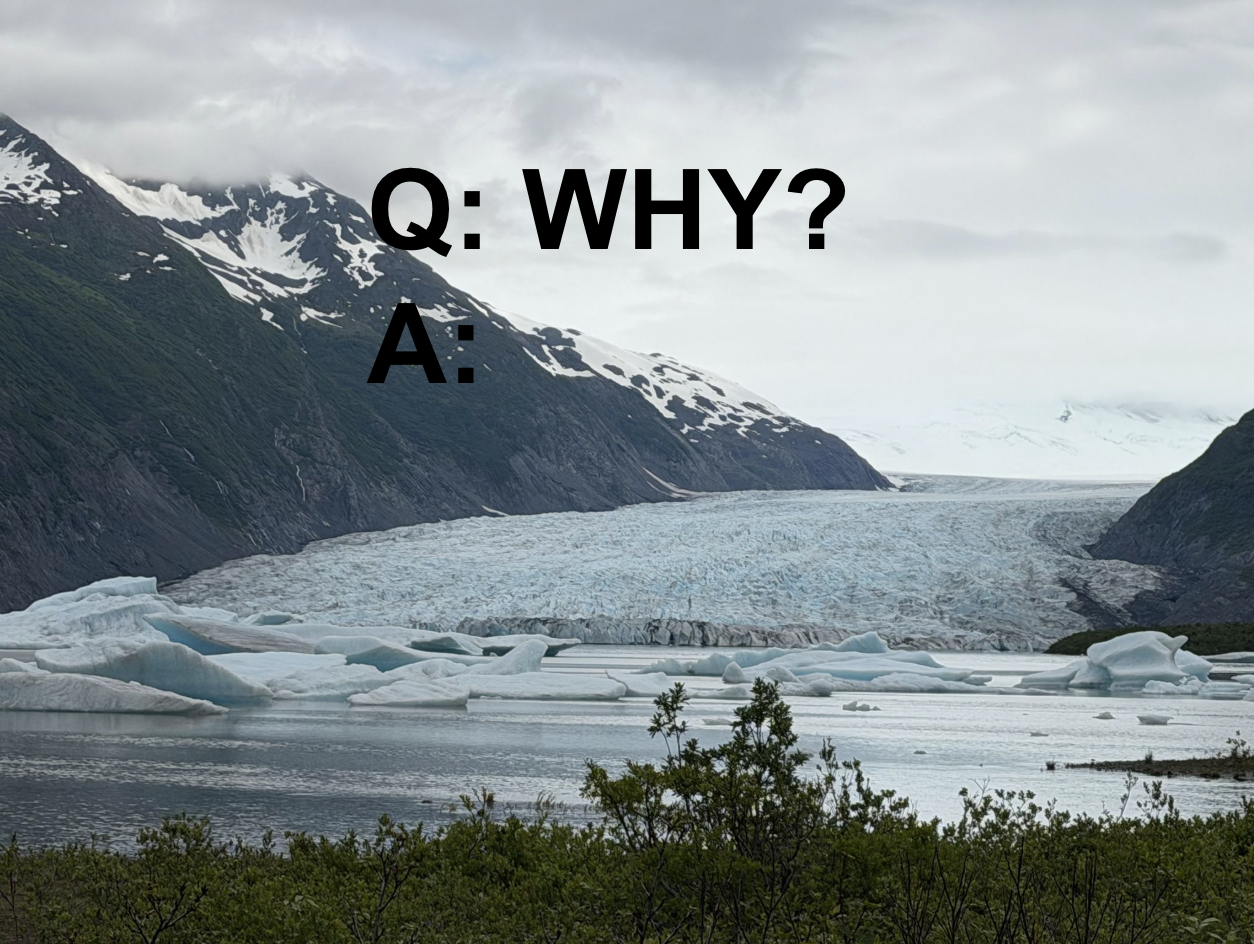
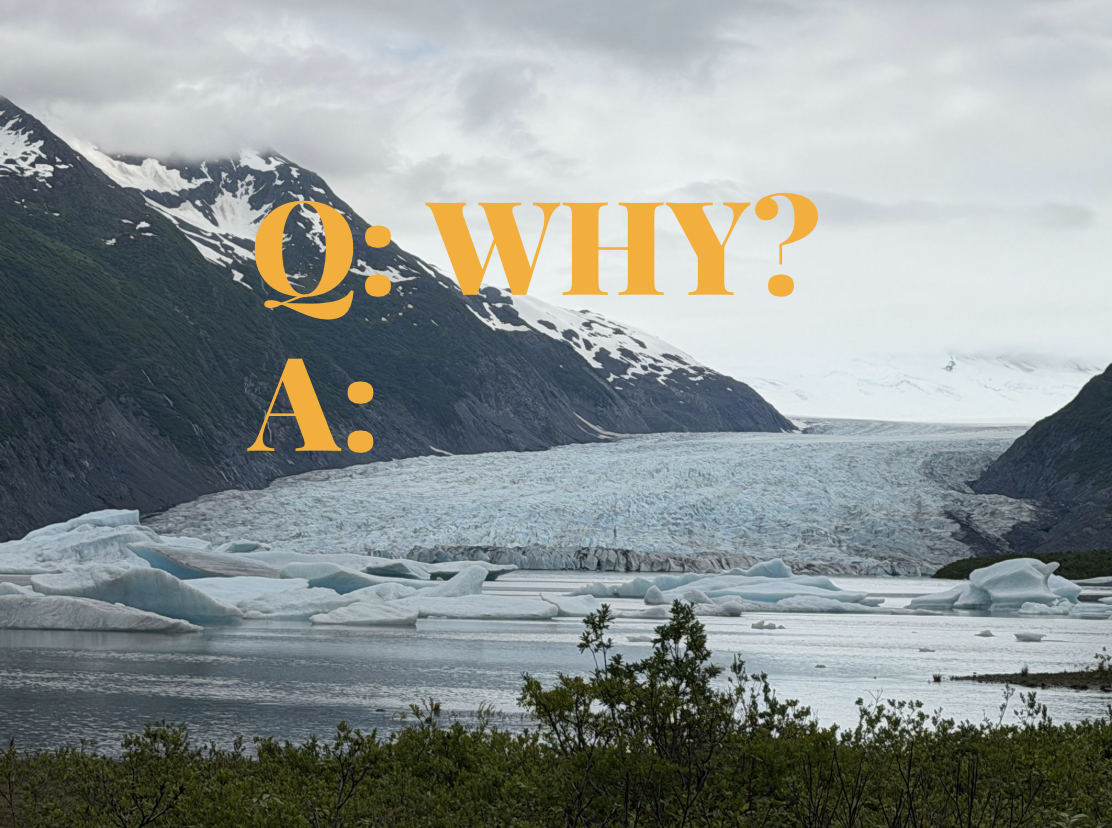
article and page updates

Changed region(s): [[0.0, 0.4227, 1.0, 1.0], [0.0, 0.1208, 0.7338, 0.4831], [0.9784, 0.4227, 1.0, 0.4529]]

diff --git a/src/styles/global.css b/src/styles/global.css
@@ -385,7 +385,7 @@ img {
 }
 
 .form-embed {
-	margin-top: 1rem;
+	margin-top: 2.5rem;
 }
 
 .form-embed iframe {

diff --git a/src/content/articles/2026_07/paragliding-tower/index.md b/src/content/articles/2026_07/paragliding-tower/index.md
@@ -3,8 +3,8 @@ title: "Kincaid Park Master Plan Update Includes New Restrooms, Trails, 1,000-Fo
 date: 2026-07-11
 category: Planning
 image: ./cover.png
-imageAlt: "Man in spacesuit beginning free-fall back to Earth."
-imageCaption: "An Anchorage paraglider seen above Kincaid Park."
+imageAlt: "Power line tower from below"
+imageCaption: "Initial construction has begun."
 author: Staff Writer
 order: 90
 ---

diff --git a/src/content/articles/2026_07/mutual-friend-connection/index.md b/src/content/articles/2026_07/mutual-friend-connection/index.md
@@ -2,9 +2,6 @@
 title: "Coastal Trail and Ship Creek Trail To Be Connected By Mutual Friend"
 date: 2026-07-11
 category: Planning
-image: ./cover.png
-imageAlt: "The Coastal Trail and the Ship Creek Trail side-by-side with a heart in the middle."
-imageCaption: "The Coastal Trail has been eyeing the Ship Creek Trail for a while."
 author: Staff Writer
 order: 70
 ---

diff --git a/src/content/articles/2026_07/because-of-glaciers/index.md b/src/content/articles/2026_07/because-of-glaciers/index.md
@@ -1,7 +1,7 @@
 ---
 title: 'Advice: If Unsure About Reason For Something In Alaska, Just Say "Because Of Glaciers"'
 date: 2026-07-11
-category: Alaskan Advice
+category: Advice
 image: ./cover.png
 imageAlt: 'Spencer Glacier in Alaska with text asking the question "why", the answer being the pictured glacier.'
 imageCaption: "Glaciers are usually the answer."

diff --git a/src/content/articles/2026_07/launched-car/index.md b/src/content/articles/2026_07/launched-car/index.md
@@ -1,7 +1,7 @@
 ---
 title: 'Launched Car Keeps Going'
 date: 2026-07-11
-category: Alaskan Events
+category: Events
 image: ./cover.png
 imageAlt: 'A small gray car flying in the clouds above faraway mountains. '
 imageCaption: 'The launched car failed to appreciate the gravity of the situation.'

diff --git a/src/content/articles/2026_07/basher-point-counterpoint/index.md b/src/content/articles/2026_07/basher-point-counterpoint/index.md
@@ -1,7 +1,7 @@
 ---
 title: "POINT: The Basher Trailhead Parking Lot Is Perfect Just The Way It Is / COUNTERPOINT: Thunk-Thunk, Ka-Chunk, Clatter-Clatter-Bang!"
 date: 2026-07-11
-category: Local Opinion
+category: Opinion
 author: Local Resident / Your Car
 order: 60
 ---

diff --git a/src/content/articles/2026_07/knights-and-maidens/index.md b/src/content/articles/2026_07/knights-and-maidens/index.md
@@ -1,7 +1,7 @@
 ---
 title: 'Knights And Maidens Spotted Wandering Around Russian Jack Weeks After Renaissance Fair'
 date: 2026-07-11
-category: Local Events
+category: Local
 author: Staff Writer
 order: 82
 ---
